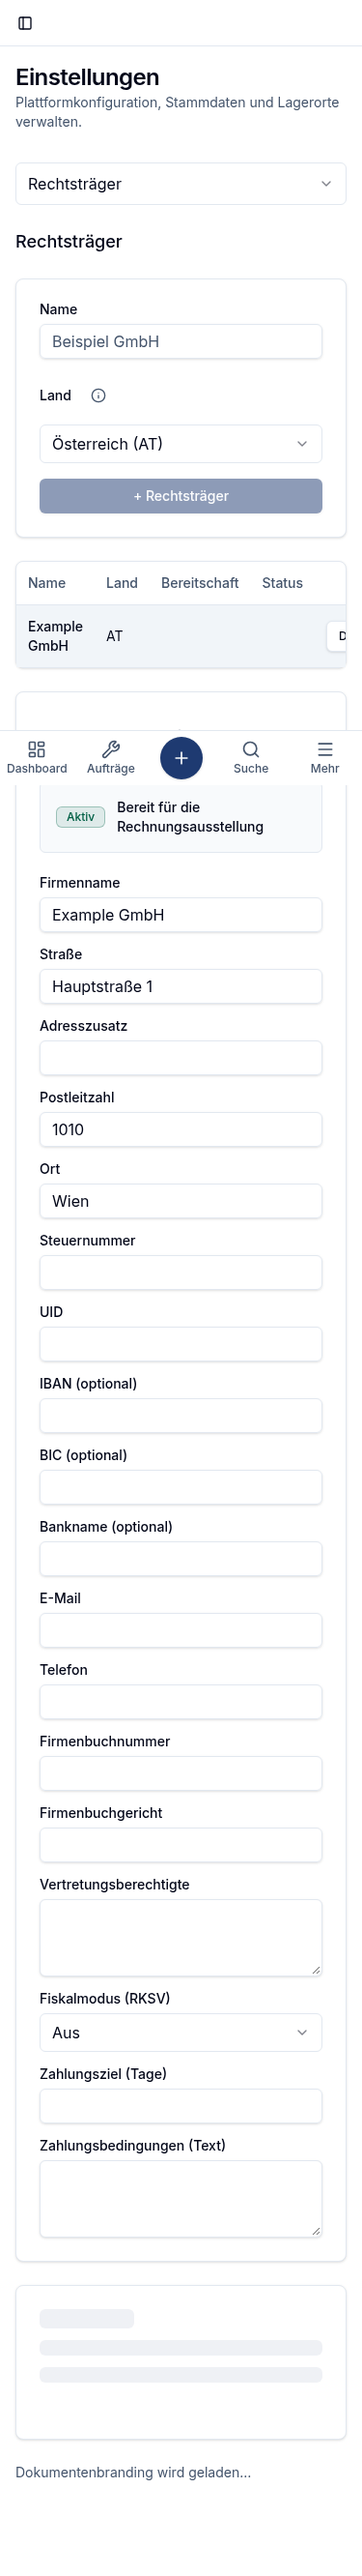
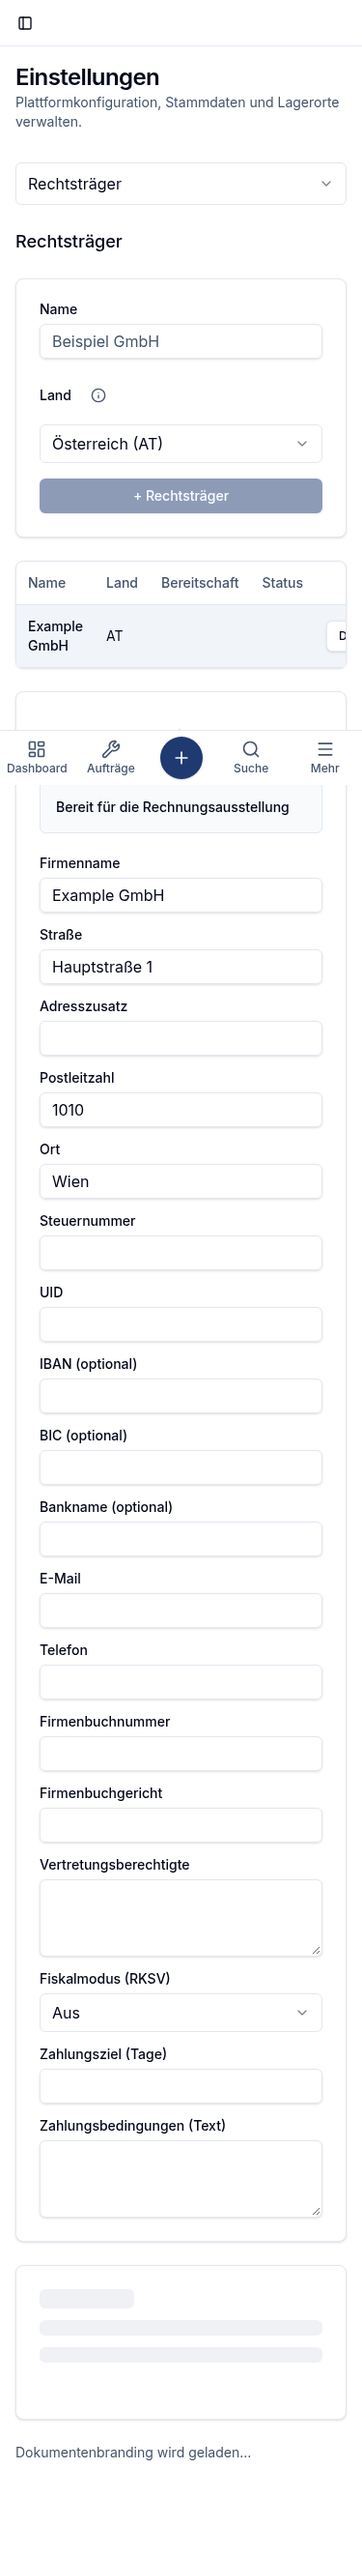
fix(core-web): AUT-952 omit OK StatusBadge on ready legal-entity callouts and assert whole tabpanel

diff --git a/apps/core-web/src/components/settings/legal-entities-settings-tab.tsx b/apps/core-web/src/components/settings/legal-entities-settings-tab.tsx
@@ -450,7 +450,7 @@ export function LegalEntityAccountingProfileForm({
 
       <div className="rounded-md border border-border bg-muted/50 p-4">
         <div className="flex items-center gap-3">
-          <StatusBadge status={readiness.is_ready ? 'ACTIVE' : 'INACTIVE'} />
+          {!readiness.is_ready ? <StatusBadge status="INACTIVE" /> : null}
           <span className="text-sm font-medium text-foreground">
             {readiness.is_ready
               ? t('legalEntities.profile.ready')
@@ -867,7 +867,7 @@ function LegalEntitySellerForm({
 
       <div className="rounded-md border border-border bg-muted/50 p-4">
         <div className="flex items-center gap-3">
-          <StatusBadge status={readiness.is_ready ? 'ACTIVE' : 'INACTIVE'} />
+          {!readiness.is_ready ? <StatusBadge status="INACTIVE" /> : null}
           <span className="text-sm font-medium text-foreground">
             {readiness.is_ready ? t('legalEntities.seller.ready') : t('legalEntities.seller.incomplete')}
           </span>

diff --git a/apps/core-web/e2e/settings-compact-texts-phone.spec.ts b/apps/core-web/e2e/settings-compact-texts-phone.spec.ts
@@ -456,9 +456,7 @@ test.describe('Settings repeated OK-state badges (AUT-952)', () => {
           await expect(wartungRow).toBeVisible()
           await expect(wartungRow.getByText(okBadgeLabel, { exact: true })).toHaveCount(0)
         } else {
-          const scope = tab === 'legal-entities'
-            ? page.locator('tbody')
-            : page.getByRole('tabpanel')
+          const scope = page.getByRole('tabpanel')
           await expect(scope.getByText(rowText).first()).toBeVisible()
           await expect(scope.getByText(okBadgeLabel, { exact: true })).toHaveCount(0)
         }
